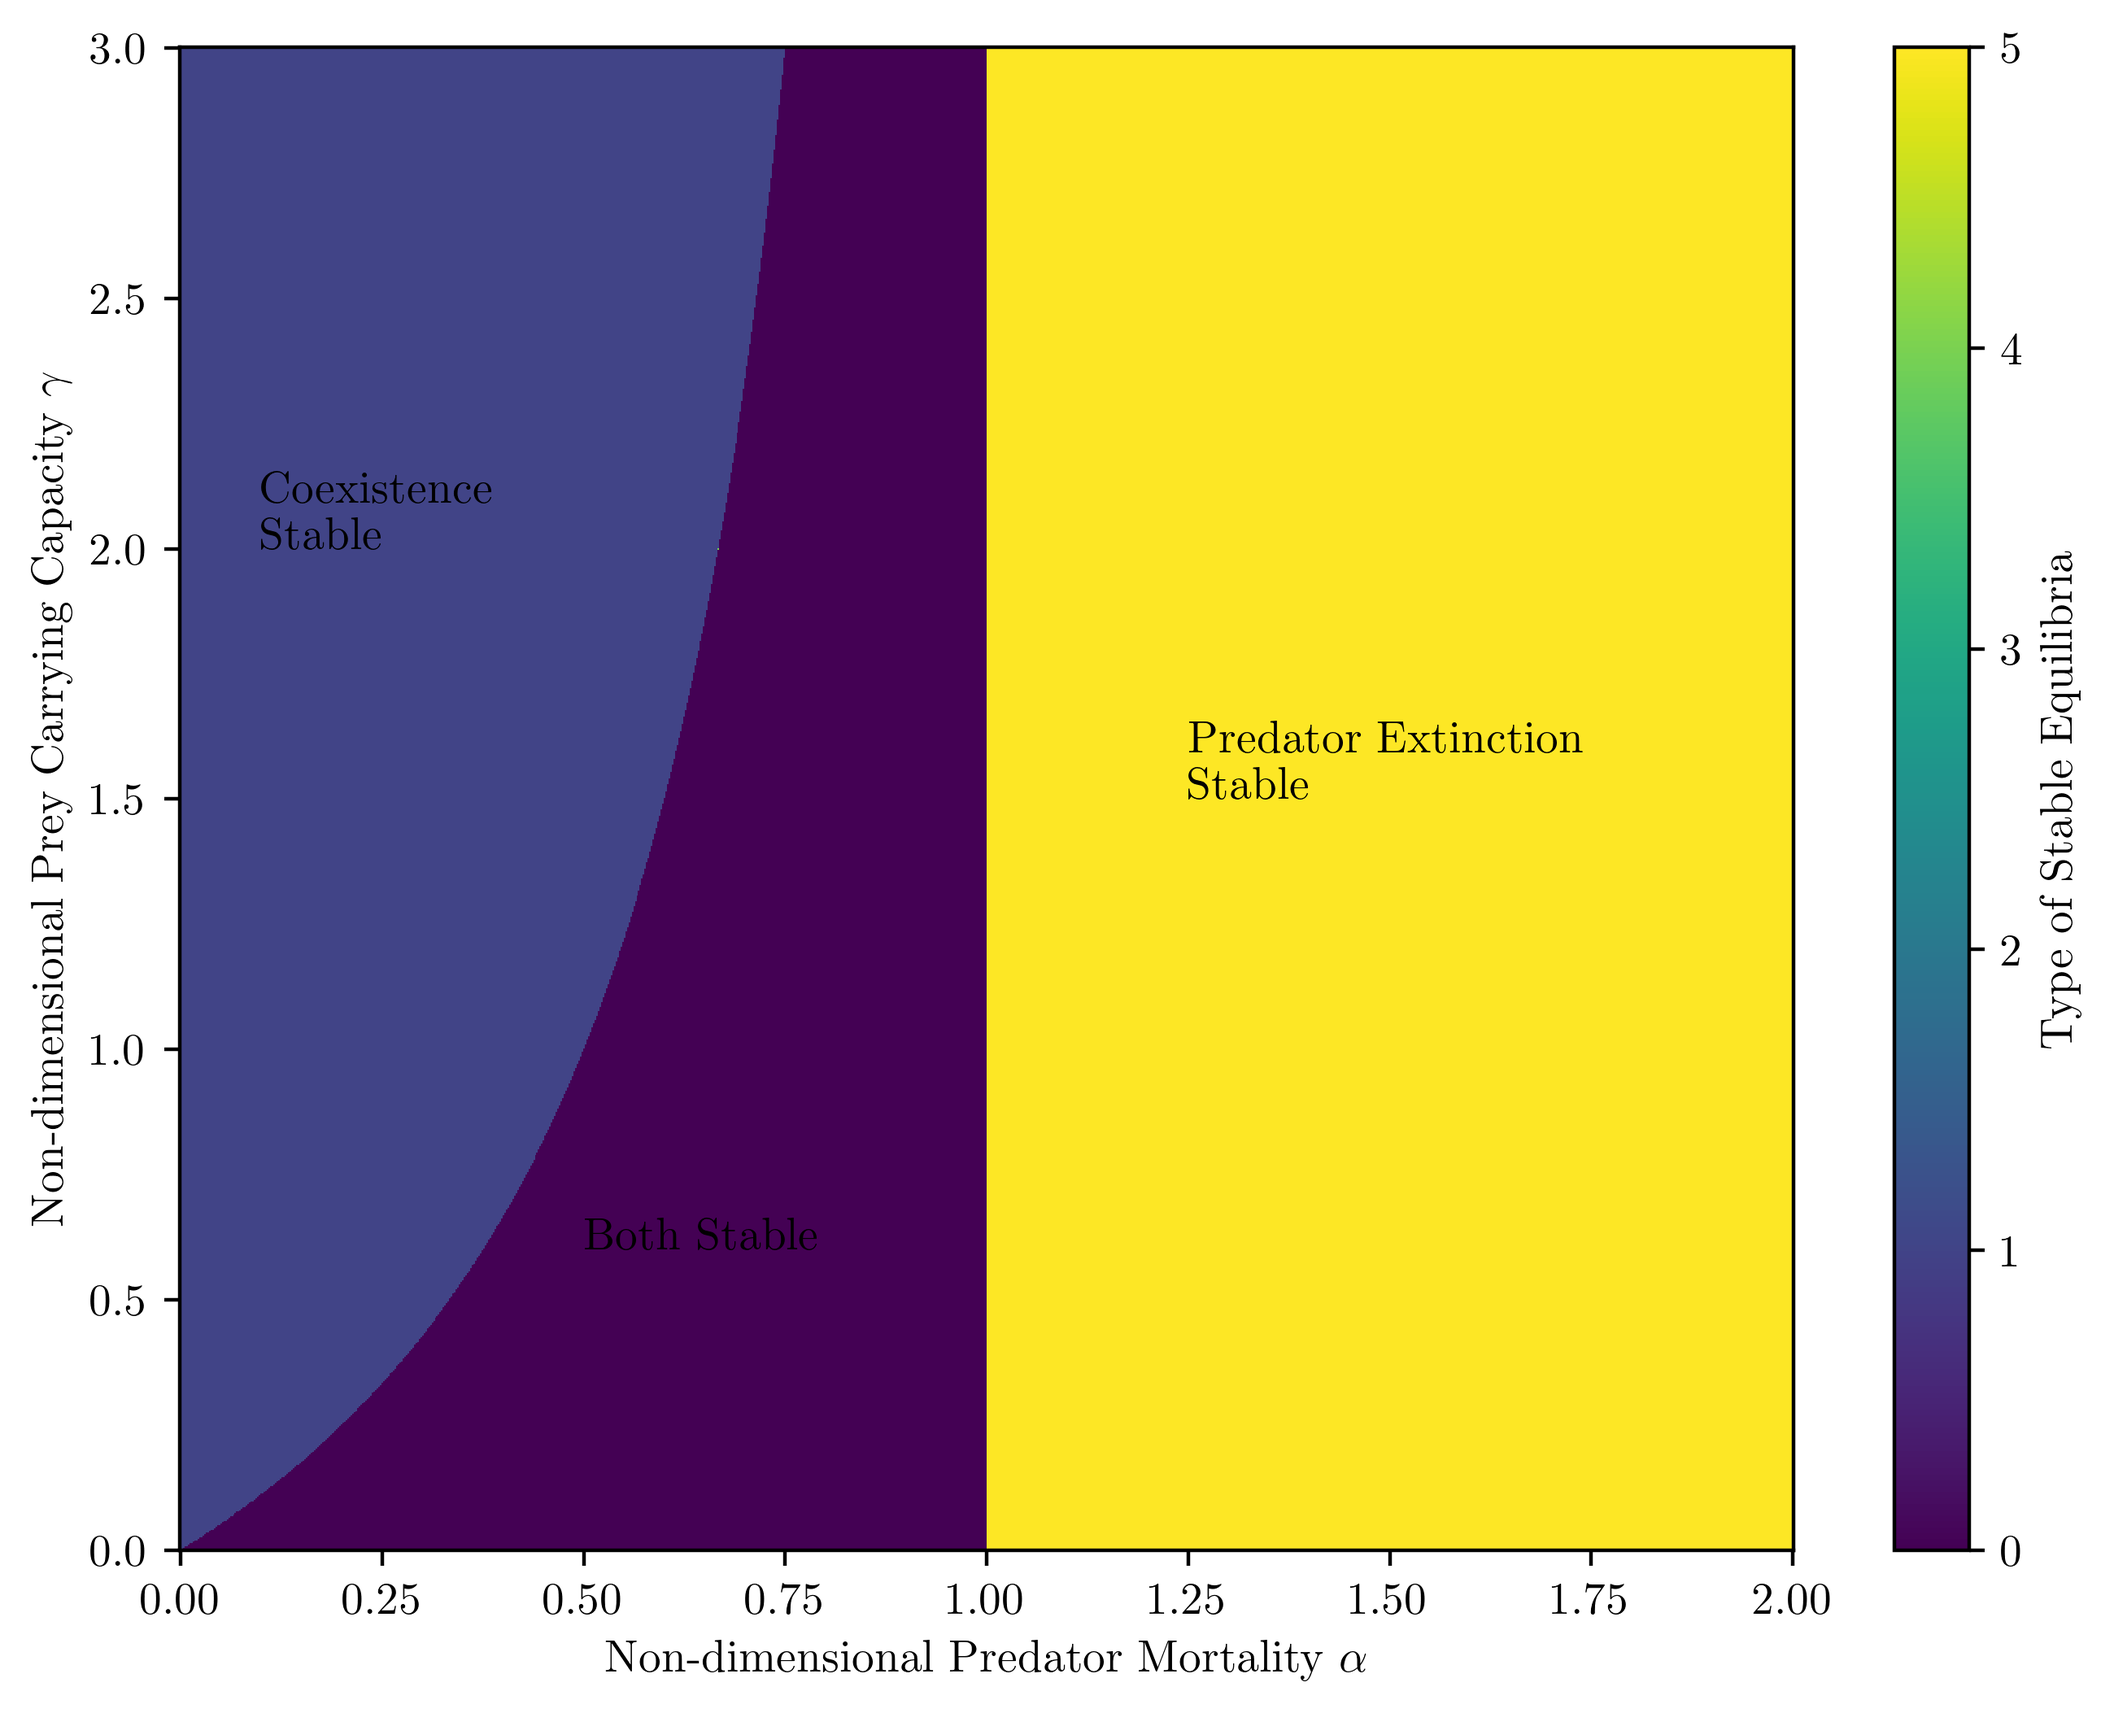
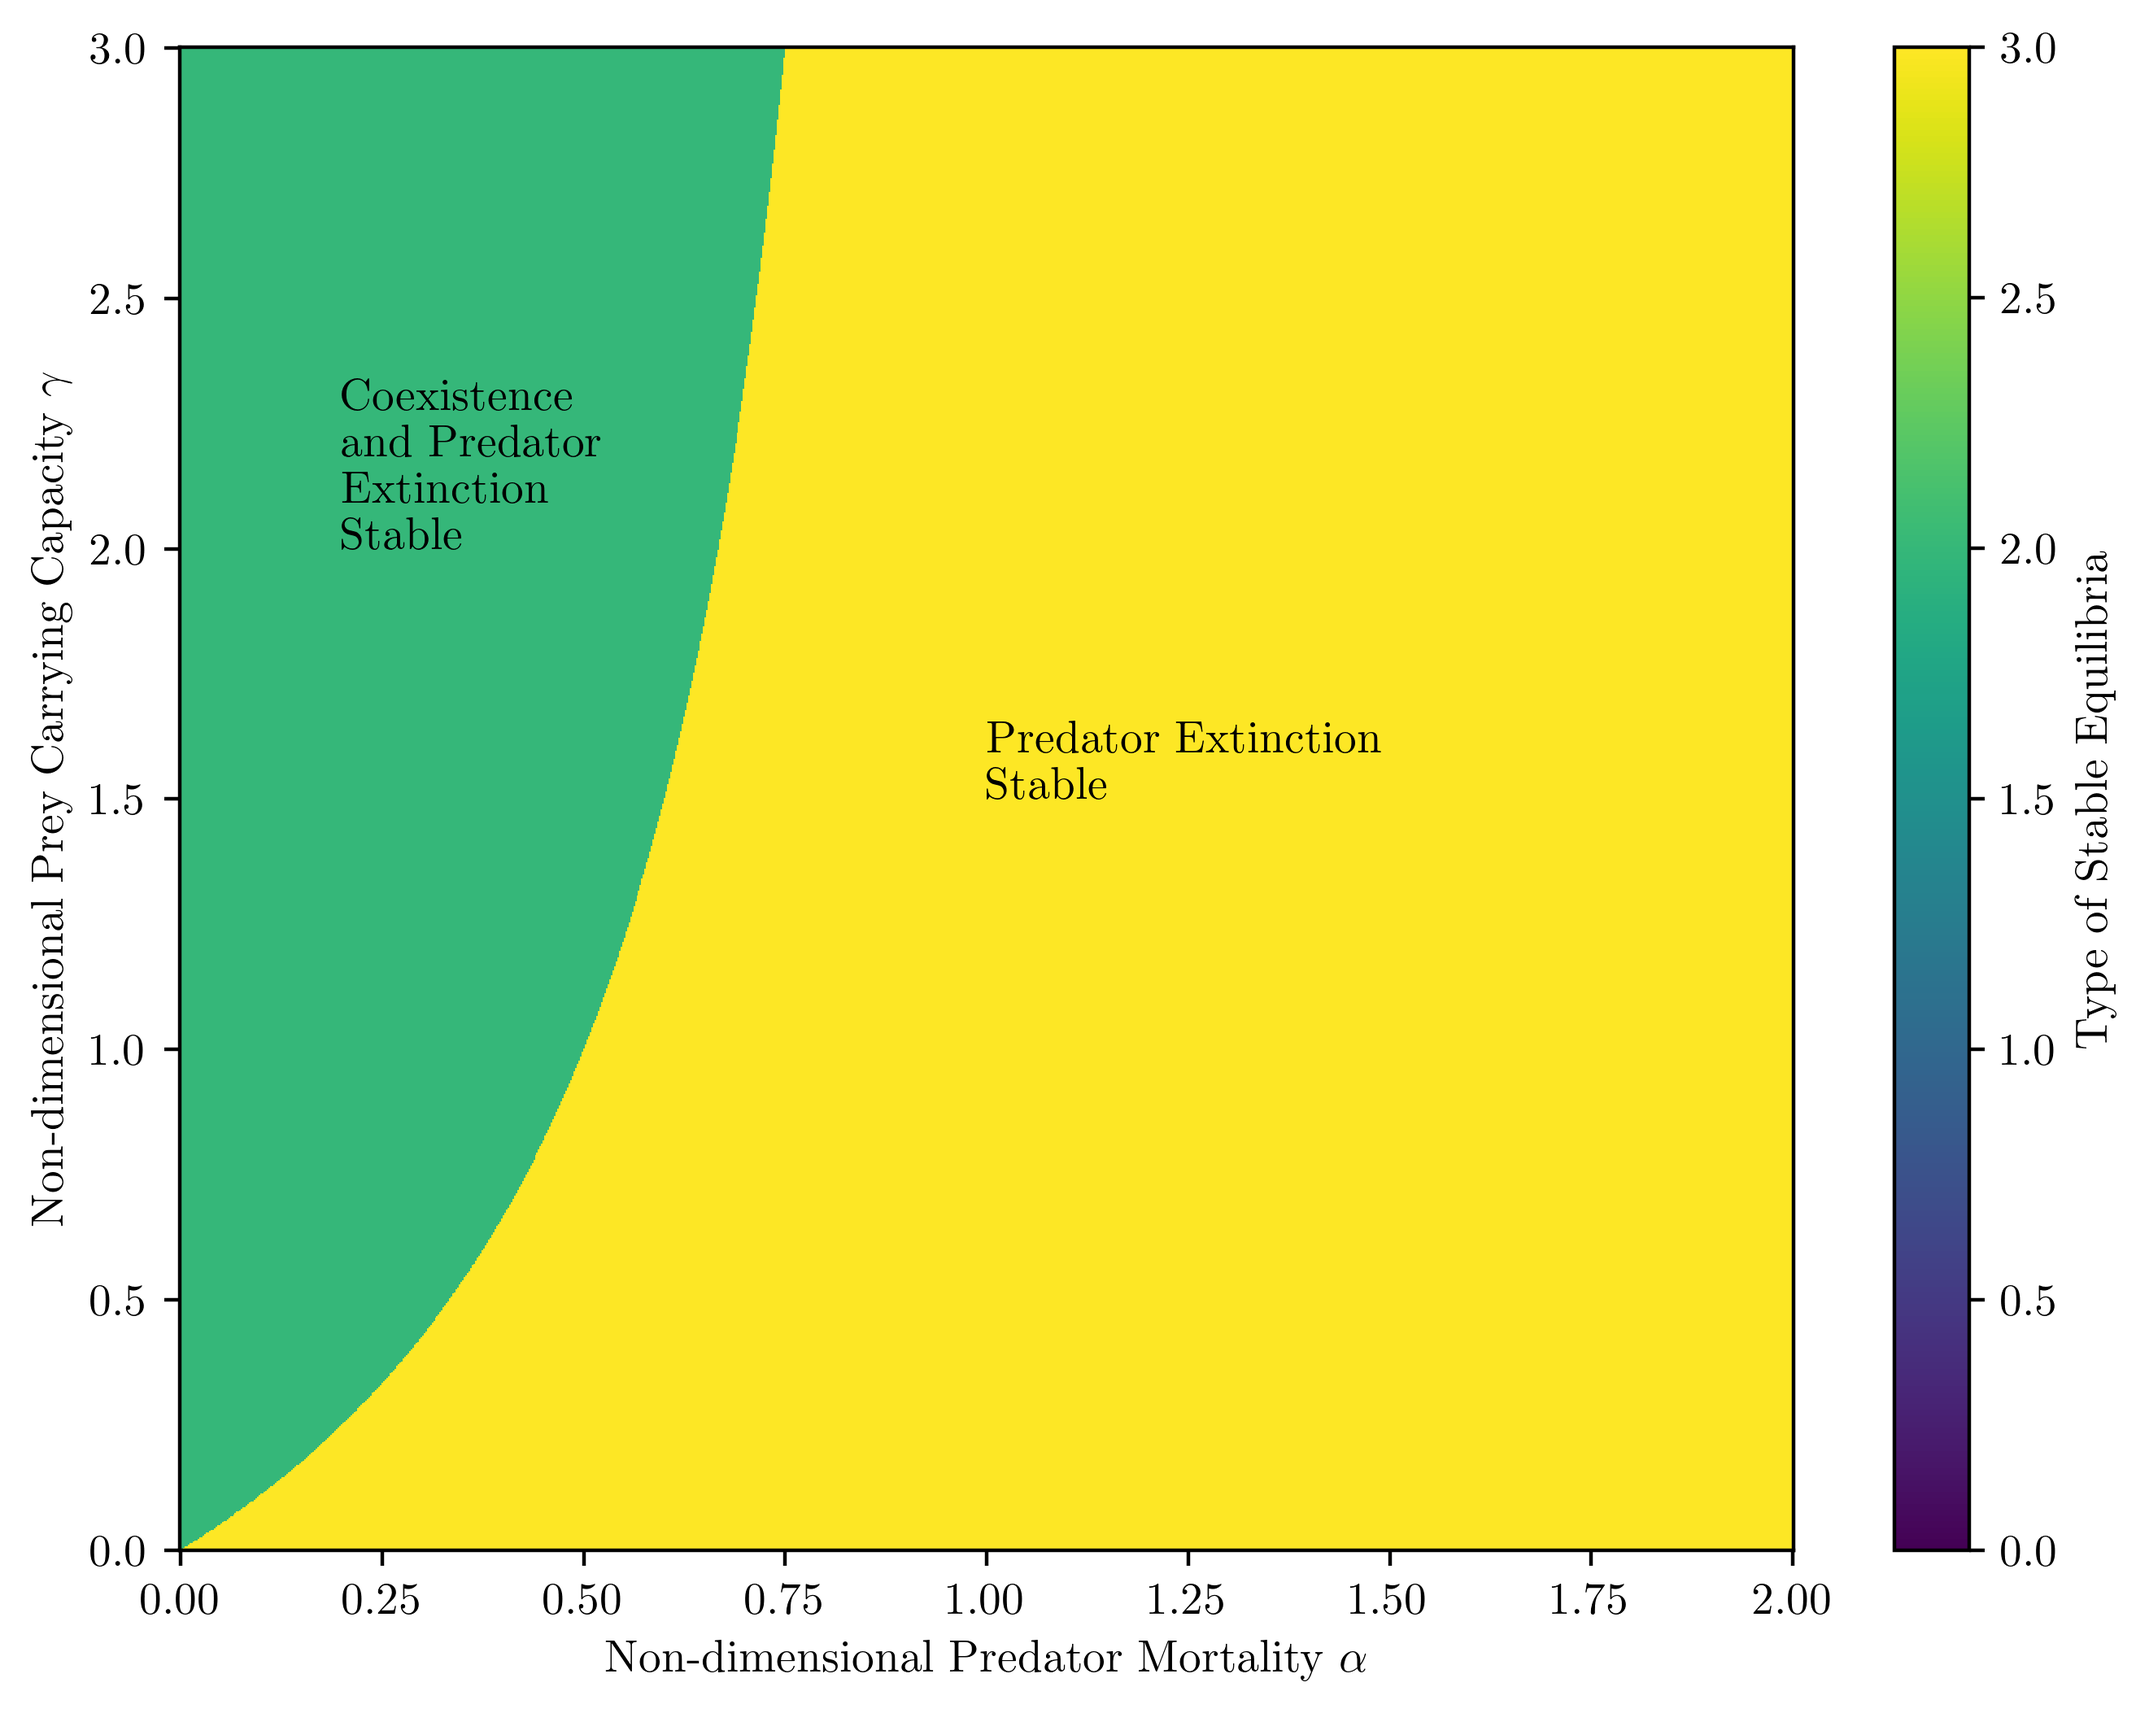
3070 again

diff --git a/5th Year/MATH3070/Assignment 2/Q1.py b/5th Year/MATH3070/Assignment 2/Q1.py
@@ -16,7 +16,7 @@ plt.rcParams['mathtext.fontset']='cm'
 # ### --- Q1 h --- ###
 
 # # define some nice non-dimensionalised constants
-# alpha = 0.4
+# alpha = 0.3
 # gamma = 2
 # beta = 1
 
@@ -70,33 +70,49 @@ agam_mesh = np.zeros((len(a_vals), len(gammas)))
 
 for i, a in enumerate(a_vals):
     for j, gam in enumerate(gammas):
-        # print(gam / (1 + gam))
-        if a < (gam / (1 + gam)):   # (gamma, 0) stable
-            if gam > (a / (1 - a)): # coexistence stable
-                val = 1
-            # elif a < 1:
-            #     val = 2
+        # # print(gam / (1 + gam))
+        # if a > (gam / (1 + gam)):   # (gamma, 0) stable
+        #     if gam > (a / (1 - a)): # coexistence stable
+        #         if a > 1:
+        #             val = 6
+        #         else:
+        #             val = 1
+        #     else:
+        #         val = 3 
+            
+        # elif gam > (a / (1 - a)):
+        #     # if a < 1:
+        #     #     val = 4
+        #     # else:
+        #     #     val = 5
+        #     val = 2
+        # else: 
+        #     val = 0
+        # agam_mesh[i, j] = val
+        
+        if (a > 1) and (a < gam / (1 + gam)):
+            agam_mesh[i, j] = 0
+        elif (gam > a / (1 - a)) and (a < 1): # coexistence!
+            if (a > gam / (1 + gam)):   # predator extinct
+                agam_mesh[i, j] = 1
             else:
-                val = 3 
-        elif gam > (a / (1 - a)):
-            if a < :
-                val = 4
-            else:
-                val = 5
-        else: 
-            val = 0
+                agam_mesh[i, j] = 2
+        elif (a > gam / (1 + gam)): # only predator extinct
+            agam_mesh[i, j] = 3
+        else:
+            agam_mesh[i, j] = 0
 
         
-        agam_mesh[i, j] = val
+        
         
 fig, ax = plt.subplots(figsize=(8, 6))
 img = ax.pcolormesh(a_vals, gammas, agam_mesh.T)
 ax.set_xlabel(r"Non-dimensional Predator Mortality $\alpha$")
 ax.set_ylabel(r"Non-dimensional Prey Carrying Capacity $\gamma$")
-ax.text(1.25, 1.5, "Predator Extinction\nStable")
+ax.text(1, 1.5, "Predator Extinction\nStable")
 # ax.text(0.75, 2.5, "Both\nExtinction")
-ax.text(0.5, 0.6, "Both Stable")
-ax.text(0.1, 2, "Coexistence\nStable")
+# ax.text(0.5, 0.6, "Both Stable")
+ax.text(0.2, 2, "Coexistence\nand Predator\nExtinction\nStable")
 fig.colorbar(img, label='Type of Stable Equilibria')
 for extension in [".png"]:
     fig.savefig("BifurcationDiagram" + extension, dpi=400, bbox_inches='tight')
